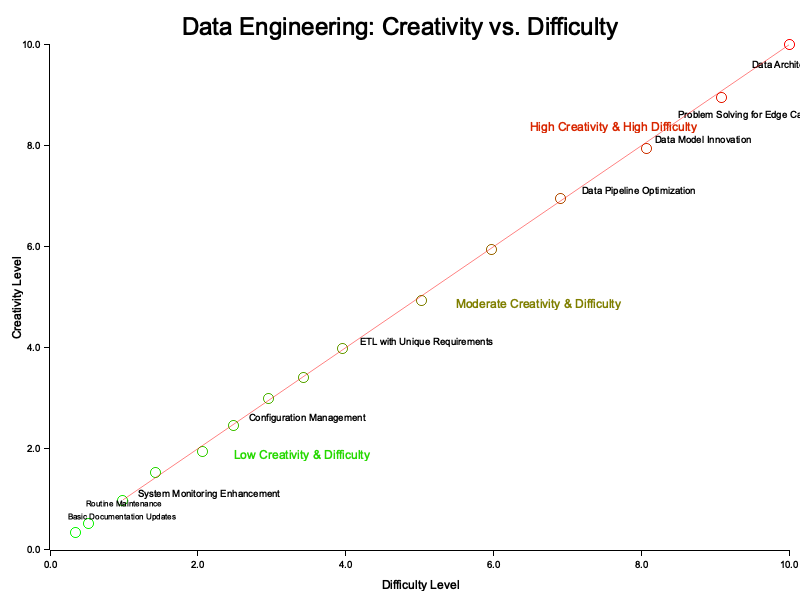
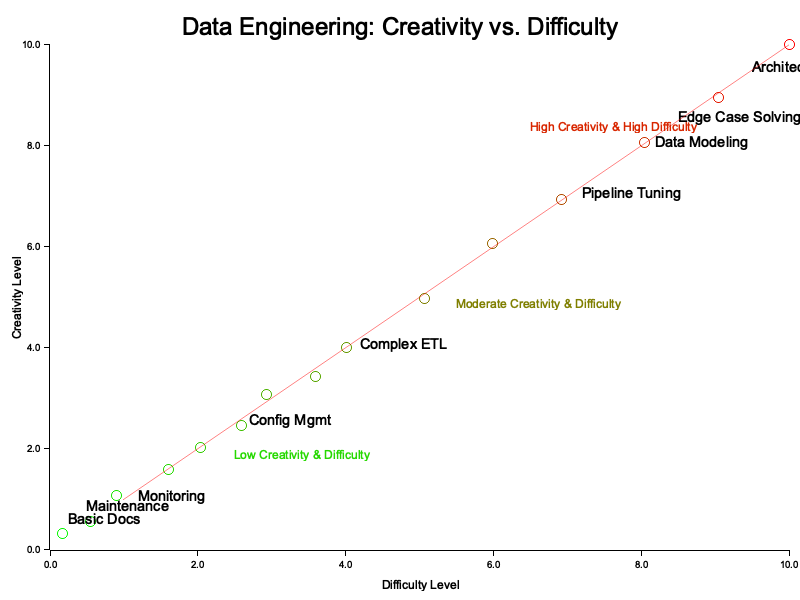
updated rust code

diff --git a/14_Is_data_engineering_creative/scatter_chart_example/src/main.rs b/14_Is_data_engineering_creative/scatter_chart_example/src/main.rs
@@ -28,21 +28,21 @@ fn main() -> Result<(), Box<dyn std::error::Error>> {
     // Define data points
     // Format: (Difficulty, Creativity, Label)
     let data_points = vec![
-        (10.0, 10.0, "Data Architecture Design"),
-        (9.0, 9.0, "Problem Solving for Edge Cases"), 
-        (8.0, 8.0, "Data Model Innovation"),
-        (7.0, 7.0, "Data Pipeline Optimization"),
-        (6.0, 6.0, "Data Quality Framework"),
-        (5.0, 5.0, "Custom Transformation Logic"),
-        (4.0, 4.0, "ETL with Unique Requirements"),
-        (3.5, 3.5, "Standard ETL Process Improvement"),
-        (3.0, 3.0, "Documentation of Complex Systems"),
-        (2.5, 2.5, "Configuration Management"),
-        (2.0, 2.0, "Compliance Implementation"),
-        (1.5, 1.5, "Basic ETL Implementation"),
-        (1.0, 1.0, "System Monitoring Enhancement"),
-        (0.5, 0.5, "Routine Maintenance"),
-        (0.25, 0.25, "Basic Documentation Updates"),
+        (10.0, 10.0, "Architecture Design"),
+        (9.0, 9.0, "Edge Case Solving"),
+        (8.0, 8.0, "Data Modeling"),
+        (7.0, 7.0, "Pipeline Tuning"),
+        (6.0, 6.0, "Quality Framework"),
+        (5.0, 5.0, "Custom ETL Logic"),
+        (4.0, 4.0, "Complex ETL"),
+        (3.5, 3.5, "ETL Improvement"),
+        (3.0, 3.0, "System Docs"),
+        (2.5, 2.5, "Config Mgmt"),
+        (2.0, 2.0, "Compliance"),
+        (1.5, 1.5, "Basic ETL"),
+        (1.0, 1.0, "Monitoring"),
+        (0.5, 0.5, "Maintenance"),
+        (0.25, 0.25, "Basic Docs"),
     ];
 
     // Helper function to get color based on value
@@ -81,12 +81,12 @@ fn main() -> Result<(), Box<dyn std::error::Error>> {
             // Special handling for different points based on position
             let (font_size, x_offset, y_offset) = if idx >= data_points.len() - 2 {
                 // Bottom points - place labels above points
-                (10, 0.0, 0.5)  // Smaller font and position above point
+                (18, 0.0, 0.5)  // Increased from 10 to 15
             } else if idx < 2 {
                 // Top points - place labels below and left of points to keep them in view
-                (12, -0.5, -0.3)  // Smaller font and position below and left
+                (18, -0.5, -0.3)  // Increased from 12 to 18
             } else {
-                (12, 0.2, 0.2)  // Regular size for other points
+                (18, 0.2, 0.2)  // Increased from 12 to 18
             };
             
             chart.draw_series(std::iter::once(Text::new(
